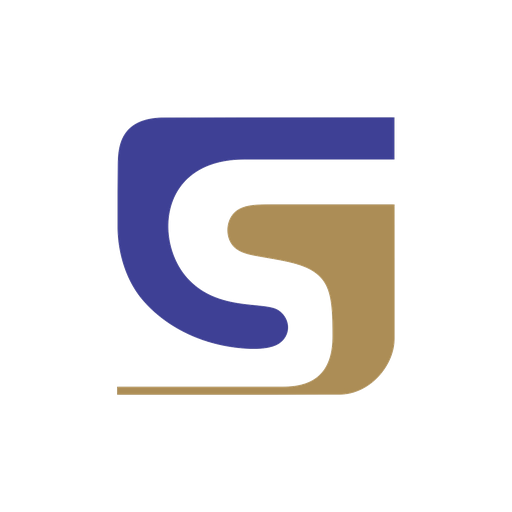
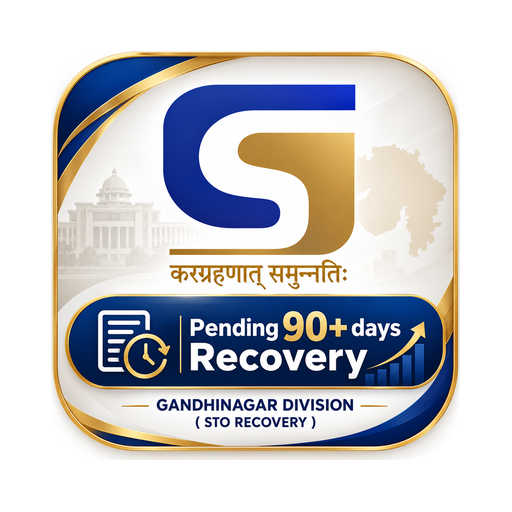
Add files via upload

diff --git a/index.html b/index.html
@@ -1,7 +1,7 @@
 <!DOCTYPE html>
 <html>
 <head>
-<title>Recovery Update – Gandhinagar Division</title>
+<title>STO Recovery – Pending 90+ Days | Gandhinagar Division</title>
 <meta charset="utf-8">
 <meta name="viewport" content="width=device-width, initial-scale=1, maximum-scale=1, viewport-fit=cover">
 <meta name="theme-color" content="#2E2F7A">
@@ -33,13 +33,17 @@
   .brand .word{height:34px}
   .hello{margin-top:18px;font:600 23px Poppins,Inter,sans-serif}
   .hello small{display:block;font:400 13px Inter,sans-serif;opacity:.82;margin-top:2px}
-  body.home .top{padding-bottom:72px}
+  body.home .top{padding-bottom:70px}
+  .badgeWrap{display:flex;justify-content:center;margin-top:4px}
+  .badge{width:min(58vw,230px);height:auto;filter:drop-shadow(0 10px 22px rgba(0,0,0,.35))}
+  body.home .hello{text-align:center;margin-top:10px}
+  body.home .hello small{font-size:12.5px;letter-spacing:.03em}
   .tb{display:flex;align-items:center;gap:10px}
   .tb .bk{width:36px;height:36px;border-radius:11px;background:rgba(255,255,255,.16);border:0;color:#fff;font-size:18px;flex:none}
   .tb h1{margin:0;font:600 16px Poppins,Inter,sans-serif;line-height:1.25;min-width:0}
   .tb h1 small{display:block;font:400 12px Inter,sans-serif;opacity:.8;white-space:nowrap;overflow:hidden;text-overflow:ellipsis}
-  .tb .mini{margin-left:auto;width:32px;height:32px;border-radius:9px;background:#fff;display:flex;align-items:center;justify-content:center;flex:none}
-  .tb .mini img{width:24px;height:24px}
+  .tb .mini{margin-left:auto;width:38px;height:38px;flex:none}
+  .tb .mini img{width:38px;height:38px;display:block;filter:drop-shadow(0 2px 4px rgba(0,0,0,.3))}
   .kpis{display:grid;grid-template-columns:1fr 1fr;gap:8px;margin-top:12px}
   .kpi{background:rgba(255,255,255,.13);border-radius:12px;padding:8px 10px;min-width:0}
   .kpi span{font-size:10.5px;opacity:.82;display:block}
@@ -134,12 +138,12 @@
 
 <!-- HEADER -->
 <div class="top"><div class="in">
-  <div id="brandRow" class="brand"><div class="chip"><img src="logo-mark.png" alt=""></div><img class="word" src="logo-word.png" alt="Gujarat State Tax"></div>
-  <div id="heroTxt" class="hello">Recovery Update<small id="heroSub">Gandhinagar Division · Weekly monitoring</small></div>
+  <div id="brandRow" class="badgeWrap"><img class="badge" src="logo-badge.png" alt="Pending 90+ days Recovery – Gandhinagar Division (STO Recovery)"></div>
+  <div id="heroTxt" class="hello"><small id="heroSub">Gandhinagar Division · Weekly monitoring</small></div>
   <div id="tbRow" class="tb hide">
     <button id="backBtn" class="bk" onclick="goBack()" aria-label="Back">&#8592;</button>
     <h1 id="title">Recovery Update<small>&nbsp;</small></h1>
-    <div class="mini"><img src="logo-mark.png" alt=""></div>
+    <div class="mini"><img src="logo-badge-sm.png" alt=""></div>
   </div>
   <div id="kpis" class="kpis hide"></div>
 </div></div>

diff --git a/sw.js b/sw.js
@@ -1,8 +1,8 @@
 /* STO Recovery – offline support.
    Pages: try the internet first (so updates reach everyone), fall back to the saved copy.
    Data requests to Google (POST) are never cached here. */
-const CACHE = 'sto-recovery-v2';
-const FILES = ['./', 'index.html', 'config.js', 'manifest.webmanifest', 'icon-192.png', 'icon-512.png', 'logo-mark.png', 'logo-word.png'];
+const CACHE = 'sto-recovery-v3';
+const FILES = ['./', 'index.html', 'config.js', 'manifest.webmanifest', 'icon-192.png', 'icon-512.png', 'logo-badge.png', 'logo-badge-sm.png'];
 
 self.addEventListener('install', e => {
   e.waitUntil(caches.open(CACHE).then(c => c.addAll(FILES)).then(() => self.skipWaiting()));
